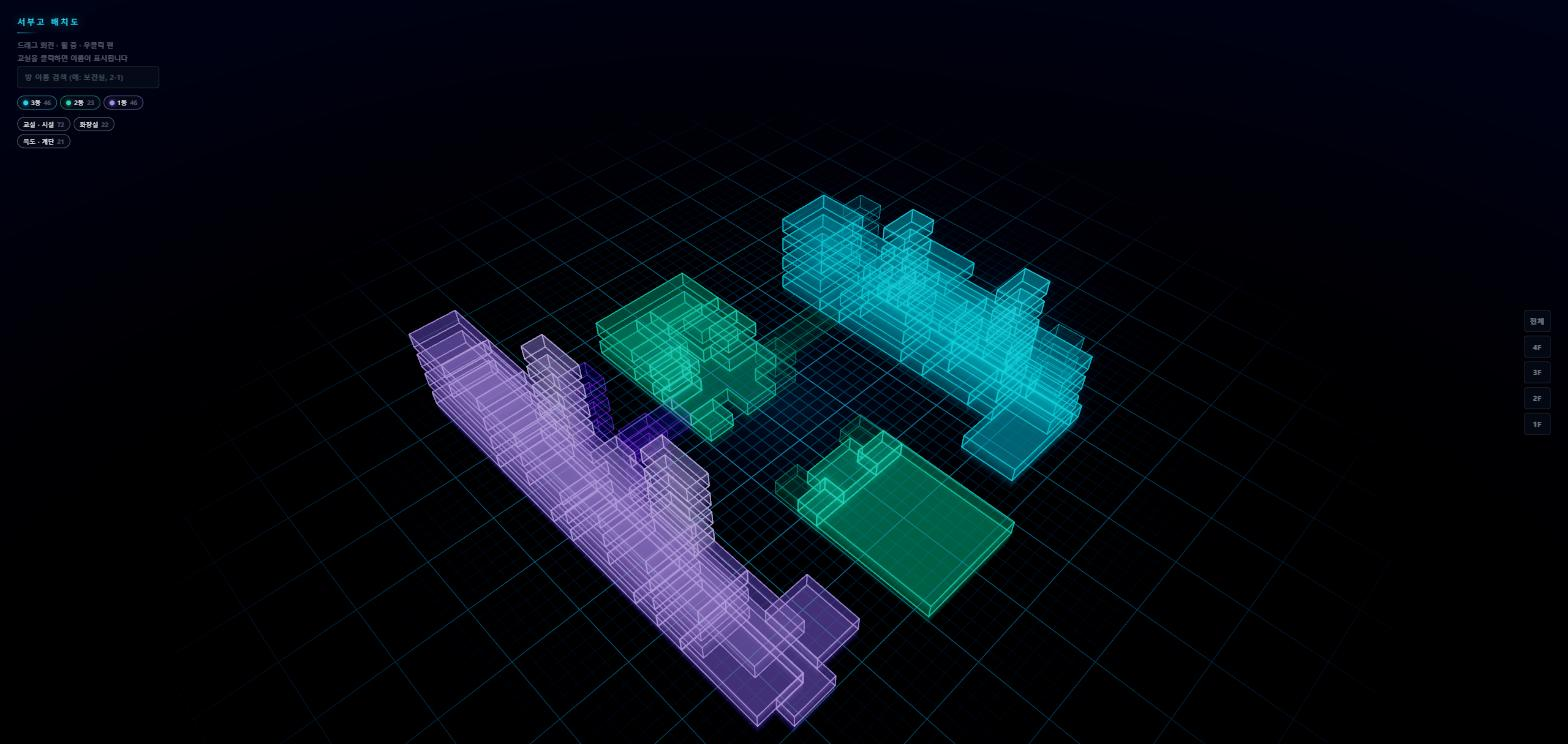
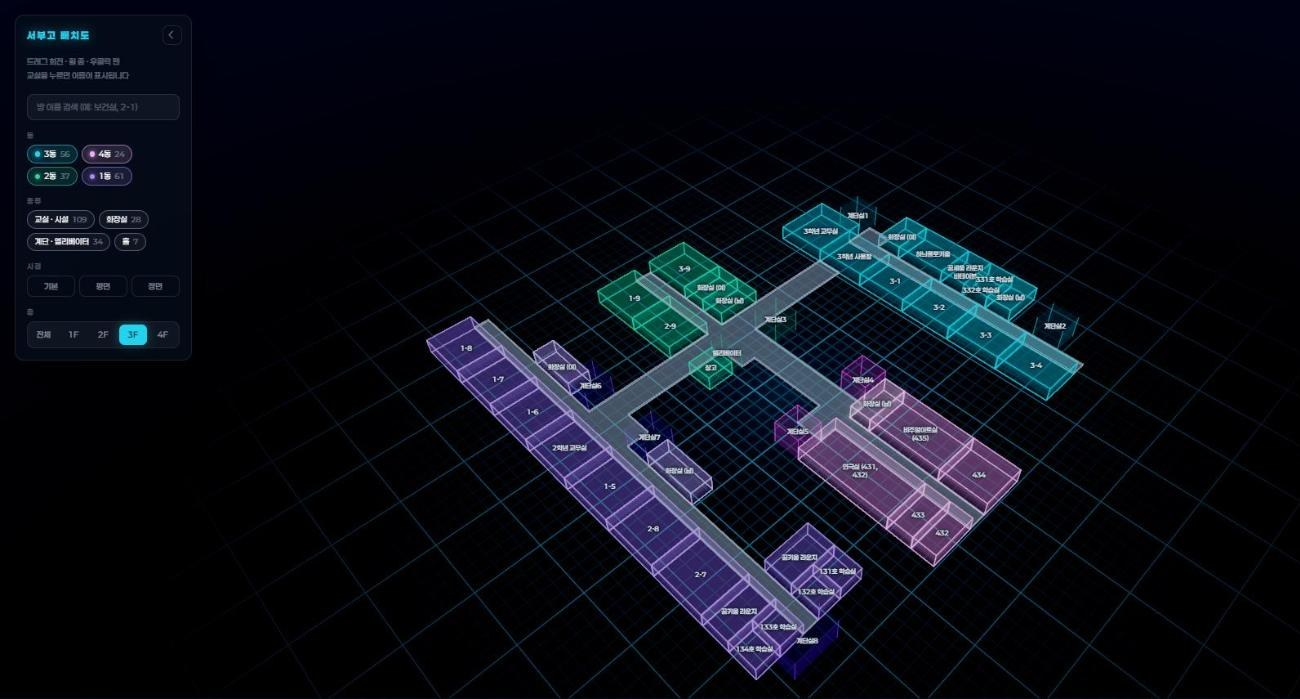
스크린샷 갱신 + 방 예약 시스템 명세서
스크린샷
- 3층 격리 + 기본 시점으로 다시 찍었다. 4개 동 색, 납작한 홀, 계단실 기둥,
  방 이름표, 새 왼쪽 패널이 한 장에 다 들어간다. 이전 것은 그중 하나도 없었다.

명세서 (docs/예약-시스템-명세.md)
- 아직 만들지 않는다. 만들 때 이 문서만 보고 시작할 수 있게 남겨둔 것이다.
- 구글 앱스크립트 + 시트. 교사가 시트의 상태 칸을 바꾸는 게 곧 승인이라
  관리자 화면·로그인·권한 시스템을 하나도 안 만들어도 된다.
- 방 키로 rooms.json 의 id(동-층F-이름) 를 쓰면 안 된다는 것을 근거와 함께 적었다.
  4동을 나눈 날 하루에만 26개 방의 id 가 바뀌었다. 반면 sh3d 의 방 UUID 는
  7/28 초기 도면의 115개 중 108개(94%)가 지금도 그대로다.
- 교시와 시각을 따로 저장하면 겹침을 판정할 수 없다. 무엇으로 신청하든 절대
  시각으로 정규화하고 교시는 표시용 라벨로만 남긴다.
- 대기 중인 신청은 남의 신청을 막지 않는다. 막으면 아무나 대기를 걸어 방을 잠근다.
- 알림이 없으면 시스템이 안 돈다는 것을 필수 항목으로 적었다.
- 아직 못 정한 것(시간표, 예약 열 방, 담당 교사 등)은 맨 뒤에 목록으로 남겼다.

diff --git a/docs/예약-시스템-명세.md b/docs/예약-시스템-명세.md
@@ -1,0 +1,257 @@
+# 방 예약 시스템 명세
+
+> 아직 만들지 않았다. 만들 때가 되면 이 문서만 보고 시작할 수 있게 적어둔 것이다.
+> 작성 2026-07-29 · 대상 저장소 [DSHS-3D-Map](https://github.com/soaq1/DSHS-3D-Map)
+
+## 무엇을 만드나
+
+3D 배치도에서 방을 고르면 그 방을 예약 신청할 수 있게 한다. 담당 교사가 승인해야
+확정된다.
+
+정해진 것:
+
+| 항목 | 결정 |
+|---|---|
+| 저장소 | 구글 앱스크립트 + 스프레드시트 |
+| 권한 | **나누지 않는다.** 누구에게나 `예약하기` 버튼 |
+| 시간 단위 | 교시별 / 시간별 **둘 다** |
+| 확정 | 담당 교사가 확인하고 **승인해야** 확정 |
+
+아직 안 정한 것은 맨 아래 [남은 결정](#남은-결정) 에 모아 뒀다.
+
+---
+
+## 1. 구조 — 관리 화면을 따로 만들지 않는다
+
+```
+GitHub Pages (지금 이 사이트, 정적)
+        │  fetch
+        ▼
+  Apps Script 웹앱          ← 신청 접수 · 현황 조회
+        │
+        ▼
+   구글 스프레드시트  =  예약 장부
+        ▲
+        │  담당 교사가 직접 연다
+        └─ 상태 칸을 대기 → 승인 으로 바꾸면 그게 곧 승인
+```
+
+**이 스택을 고른 가장 큰 이유가 이것이다.** 교사가 시트에서 `상태` 칸만 바꾸면
+승인이 끝난다. 관리자 로그인, 관리자 화면, 권한 시스템을 **하나도 만들지 않아도 된다.**
+프론트엔드는 읽기만 하므로 승인 기능 때문에 화면을 고칠 일이 없다.
+
+서버 관리도 없고 학교 구글 계정으로 무료다.
+
+### 사람이 시트를 손으로 고치기 때문에 생기는 문제
+
+셋 다 대비가 필요하다.
+
+- **오타** — `상태` 열에 데이터 확인(드롭다운)을 걸어 `대기 / 승인 / 반려 / 취소`
+  네 개만 고르게 한다. 프론트가 모르는 값이 들어가면 그 예약은 화면에서 사라진다.
+- **동시 편집** — 교사가 시트를 열어둔 동안에도 신청은 들어온다. 앱스크립트 쓰기는
+  `LockService` 로 직렬화한다. 그리고 **행은 추가만 하고 절대 지우지 않는다** —
+  취소도 상태값으로 표시한다. 사람이 행을 지우면 행 번호가 밀려 사고가 난다.
+- **공유 범위** — 담당 교사만 편집자로 둔다. 웹앱을 *"나(소유자) 권한으로 실행"* 으로
+  배포하면 학생 계정에 시트 권한을 하나도 주지 않고도 신청이 기록된다.
+
+### 앱스크립트의 한계 (미리 알고 있을 것)
+
+- 실행 시간·호출 횟수에 하루 한도가 있다. 학교 규모에서는 문제되지 않지만,
+  지도 화면이 방을 옮길 때마다 조회하면 금방 늘어난다 → **읽기 응답은 `CacheService`
+  로 몇 분 묶는다.**
+- 응답이 빠르지 않다(수백 ms~1초). 버튼을 누른 뒤 기다리는 표시가 필요하다.
+- 스프레드시트가 수천 행이 되면 느려진다. 학년도가 끝나면 시트를 갈아 끼운다.
+
+---
+
+## 2. 방을 무엇으로 가리킬 것인가
+
+**이 문서에서 제일 중요한 항목이다.**
+
+지금 `rooms.json` 의 방 `id` 는 `동-층F-이름` 이다 (`3동-3F-하늬콜로키움`).
+**이걸 예약 키로 쓰면 안 된다.** 도면을 고치면 곧바로 깨진다. 실제로 2026-07-28
+하루 작업에서 이런 일이 있었다.
+
+- `2동 홀` → `2동 1층 홀` 로 이름을 바꿈 → id 변경
+- 4동을 새로 나누면서 **26개 방의 소속이 2동 → 4동** → id 26개가 한꺼번에 변경
+
+예약 시스템이 이미 돌고 있었다면 그날 하루에 26개 방의 예약이 전부 고아가 됐다.
+
+반면 Sweet Home 3D 가 방마다 붙이는 UUID(`room-de679dc7-…`)는 이름을 바꾸든 동
+분류가 바뀌든 그대로다. 확인해 보니 **7/28 초기 도면의 방 115개 중 108개(94%)가
+지금도 같은 UUID** 였다. 그 사이 이름이 바뀌고 폴리곤이 합쳐졌는데도 그렇다.
+
+### 그래서
+
+1. **파서가 UUID 를 `sourceId` 로 같이 내보낸다.** `tools/parse_sh3d.py` 의 방 조립
+   루프는 이미 `r.get("id")` 를 들고 있으므로 레코드에 한 줄만 더하면 된다.
+   예약을 만들기 **전에** 넣어두는 게 좋다 — 나중에 넣으면 그 사이 쌓인 예약을 옮겨야 한다.
+2. 예약은 `sourceId` 를 키로 쓴다.
+3. 방을 **다시 그리면** UUID 도 바뀐다(위의 나머지 6%). 그래서 예약 행에
+   `방이름`·`층`·`동` 을 **신청 시점 그대로 같이 저장**한다. UUID 가 사라져도
+   사람이 어느 방인지 알아볼 수 있어야 한다.
+4. 프론트는 `sourceId` 로 방을 못 찾으면 그 예약을 "이름으로만 남은 예약" 으로
+   구분해 보여주고, 교사에게 정리를 알린다.
+
+---
+
+## 3. 시간 모델 — 저장은 시각으로, 표시는 교시로
+
+교시별과 시간별을 둘 다 받을 때 흔한 실수가 **교시는 교시대로, 시각은 시각대로
+저장**하는 것이다. 그러면 `5교시` 예약과 `14:00~15:00` 예약이 겹치는지 판단할 수 없다.
+
+무엇으로 신청하든 **절대 시각으로 정규화해서 저장**하고, 교시로 신청한 경우에만
+`교시` 라벨을 함께 남긴다.
+
+```
+신청: 5교시            ─(시간표 참조)─▶   저장: 13:50 ~ 14:40 , 교시 = "5"
+신청: 14:00 ~ 15:00                 ─▶   저장: 14:00 ~ 15:00 , 교시 = (빈칸)
+
+겹침 판정:  (시작A < 끝B) && (시작B < 끝A)      ← 규칙 하나로 끝
+```
+
+교시 라벨은 화면에 "5교시" 로 예쁘게 보여주는 용도이지 판정에는 쓰지 않는다.
+
+### 시간표는 설정 파일로
+
+학기마다 바뀌므로 코드에 박지 않는다. `tools/plan.config.json` 이 층·동·종류를
+설정으로 빼둔 것과 같은 방식이다.
+
+```jsonc
+"periods": [
+  { "key": "morning", "label": "아침",  "start": "08:20", "end": "08:50" },
+  { "key": "1",       "label": "1교시", "start": "09:00", "end": "09:50" },
+  // …
+  { "key": "night1",  "label": "야자1", "start": "19:00", "end": "20:30" }
+]
+```
+
+요일마다 시간표가 다르면 `periods` 를 요일별로 나눈다. **실제 시간표는 아직 못 받았다.**
+
+---
+
+## 4. 예약 가능한 방
+
+이름으로 훑으면 후보가 40개쯤 된다.
+
+| 성격 | 방 |
+|---|---|
+| 학습실 | 121~123호, 131~134호, 331·332호, 341~344호 (각 16㎡) |
+| 라운지 | 꿈돋움 ×2, 꿈키움 ×2, 글로벌 ×2 |
+| 콜로키움 | 하늬콜로키움(3F), 큰들마 콜로키움(4F) |
+| 특별실 | 대강의실, 무용실, 음악실, 미술실, 컴퓨터1실, 제1·2과학실, 기술·가정실, 연극실(431,432), 비주얼아트실(435), 하늬꿈틀공작소, 방송실, 심자실, 정독실, 하늬글샘, 회의실 |
+
+**어느 것을 열지는 설정에서 고른다.** `plan.config.json` 에 규칙을 두고 파서가
+`reservable: true` 를 붙이는 식으로, 이미 있는 `shaftWords`·`typeColors`·`typeHeights`
+와 같은 패턴을 쓴다. 방마다 정원과 비고(예: "사용 후 정리 필수")도 여기서 같이 준다.
+
+---
+
+## 5. 시트 열 구성
+
+| 열 | 예 | 비고 |
+|---|---|---|
+| 신청시각 | `2026-05-12 09:31` | 앱스크립트가 찍는다 |
+| 예약번호 | `R-2605-0142` | 취소·문의용. 신청자에게 보여준다 |
+| sourceId | `room-de679dc7-…` | **진짜 키** |
+| 방이름 | `331호 학습실` | 신청 시점 스냅샷 |
+| 층 / 동 | `3` / `3동` | 신청 시점 스냅샷 |
+| 날짜 | `2026-05-12` | |
+| 시작 / 끝 | `13:50` / `14:40` | 정규화된 시각 |
+| 교시 | `5` | 시간으로 신청했으면 빈칸 |
+| 신청자 | `김○○` | 로그인이 없으므로 자기 신고 |
+| 소속 | `2-3` | 학급 또는 동아리 |
+| 연락 | | 교사가 확인할 수단 |
+| 사유 | `스터디` | |
+| **상태** | `대기` | **교사가 고치는 칸** (드롭다운) |
+| 처리메모 | `그날 대청소라 반려` | 반려 사유. 신청자에게 보여준다 |
+
+---
+
+## 6. 상태 흐름
+
+```
+[신청] ──▶ 대기 ──교사──▶ 승인 ──▶ 확정
+             │             │
+             └─교사─▶ 반려   └─교사─▶ 취소
+```
+
+- **승인된 예약만** 지도와 시간표에 "예약됨" 으로 보인다.
+- **대기 중인 신청은 다른 사람의 신청을 막지 않는다.** 막으면 아무나 대기를 걸어
+  방을 잠글 수 있다. 겹치는 신청이 여럿이면 교사가 하나만 승인하고 나머지를 반려한다.
+- 앱스크립트가 **승인 시점에 겹침을 다시 검사**해서, 이미 승인된 것과 겹치면 교사에게
+  경고한다. 사람이 시트에서 직접 바꾸는 방식이라 이 검사가 마지막 안전망이다.
+
+---
+
+## 7. API (앱스크립트 웹앱)
+
+| 요청 | 하는 일 |
+|---|---|
+| `GET ?action=slots&room=<sourceId>&date=<날짜>` | 그 방 그 날의 승인된 예약 + 교시 시간표 |
+| `GET ?action=day&date=<날짜>` | 그 날 전체 방의 승인 현황 (지도에 칠하기용) |
+| `POST action=request` | 신청 → 예약번호 반환 |
+| `POST action=cancel` | 예약번호 + 신청자명으로 본인 취소 (대기 상태일 때만) |
+
+읽기 응답은 `CacheService` 로 몇 분 묶는다.
+
+---
+
+## 8. 프론트엔드에 붙는 곳
+
+**이미 있는 것에 얹는다. 새 화면을 만들지 않는다.**
+
+- **방 정보 패널** (`#panel`) — 예약 가능한 방이면 `예약하기` 버튼과
+  `오늘 3건 예약됨` 요약 한 줄. `src/main.js` 의 `openPanel()` 이 붙일 자리다.
+- **예약 대화상자** — 날짜 / 교시·시간 전환 / 시간 선택 / 신청자 정보.
+  확인 화면에 **"승인 후 확정됩니다"** 를 분명히 적는다. 누르자마자 잡힌 줄 알면
+  그 방에 그냥 가버린다.
+- **지도 위 표시** *(1차 범위에서 제외)* — 날짜를 고르면 예약된 방을 다른 색으로.
+  `applyFilters()` 옆에 얹으면 된다.
+
+---
+
+## 9. 로그인이 없다는 것의 대가
+
+누구나 예약 버튼을 누를 수 있다는 건 **아무 이름이나 적을 수 있다**는 뜻이다.
+승인제가 방패라 가짜 신청이 확정되지는 않지만, 대비는 필요하다.
+
+| 위험 | 대비 |
+|---|---|
+| 장난 신청이 쌓여 교사가 피곤해짐 | 같은 방·같은 날 신청 수 제한, 앞으로 N주 이내만 신청 가능 |
+| 남의 이름으로 신청 | 연락처 필수. 승인 전에 교사가 당사자 확인 |
+| 남의 예약을 취소 | 예약번호 **+** 신청자명이 맞아야, 그리고 대기 상태일 때만 |
+
+---
+
+## 10. 알림 — 없으면 시스템이 안 돈다
+
+시트만으로는 교사가 신청이 들어온 걸 **모른다.** 승인이 안 되면 예약도 안 되므로
+알림은 있으면 좋은 게 아니라 **필수다.**
+
+- 신청이 기록된 직후 앱스크립트가 담당 교사에게 메일을 보낸다, 또는
+- 하루 한 번 대기 건수를 요약해 보내는 트리거를 건다 (메일이 너무 잦으면 이쪽)
+
+승인·반려 결과도 신청자에게 알려야 한다. 연락처를 메일로 받으면 같은 방법을 쓴다.
+
+---
+
+## 11. 1차 범위에서 빼는 것
+
+반복 예약(매주 화요일 …), 정원·인원 관리, 학급 시간표 연동, 이용 통계,
+모바일 푸시 알림, 대기열 자동 승계, 지도 위 예약 현황 색칠.
+
+---
+
+## 남은 결정
+
+만들기 전에 정해야 하는 것들.
+
+1. **교시 시간표** — 몇 교시까지, 아침·점심·방과후·야자 블록의 실제 시각. 요일별로
+   다른지. *(사용자가 나중에 주기로 함)*
+2. **예약을 열 방 목록** — 위 40개 후보 중 어디까지. 방마다 정원.
+3. **담당 교사** — 몇 명인지, 방마다 다른지. 방별로 다르면 시트에 담당자 열이 붙는다.
+4. **취소 정책** — 승인된 뒤에도 신청자가 취소할 수 있는지. 지금 초안은 대기 상태만
+   본인 취소이고 승인 후에는 교사만 취소한다.
+5. **신청 가능 기간** — 며칠 전부터 몇 주 뒤까지.
+6. **주말·공휴일** — 신청을 받는지.
